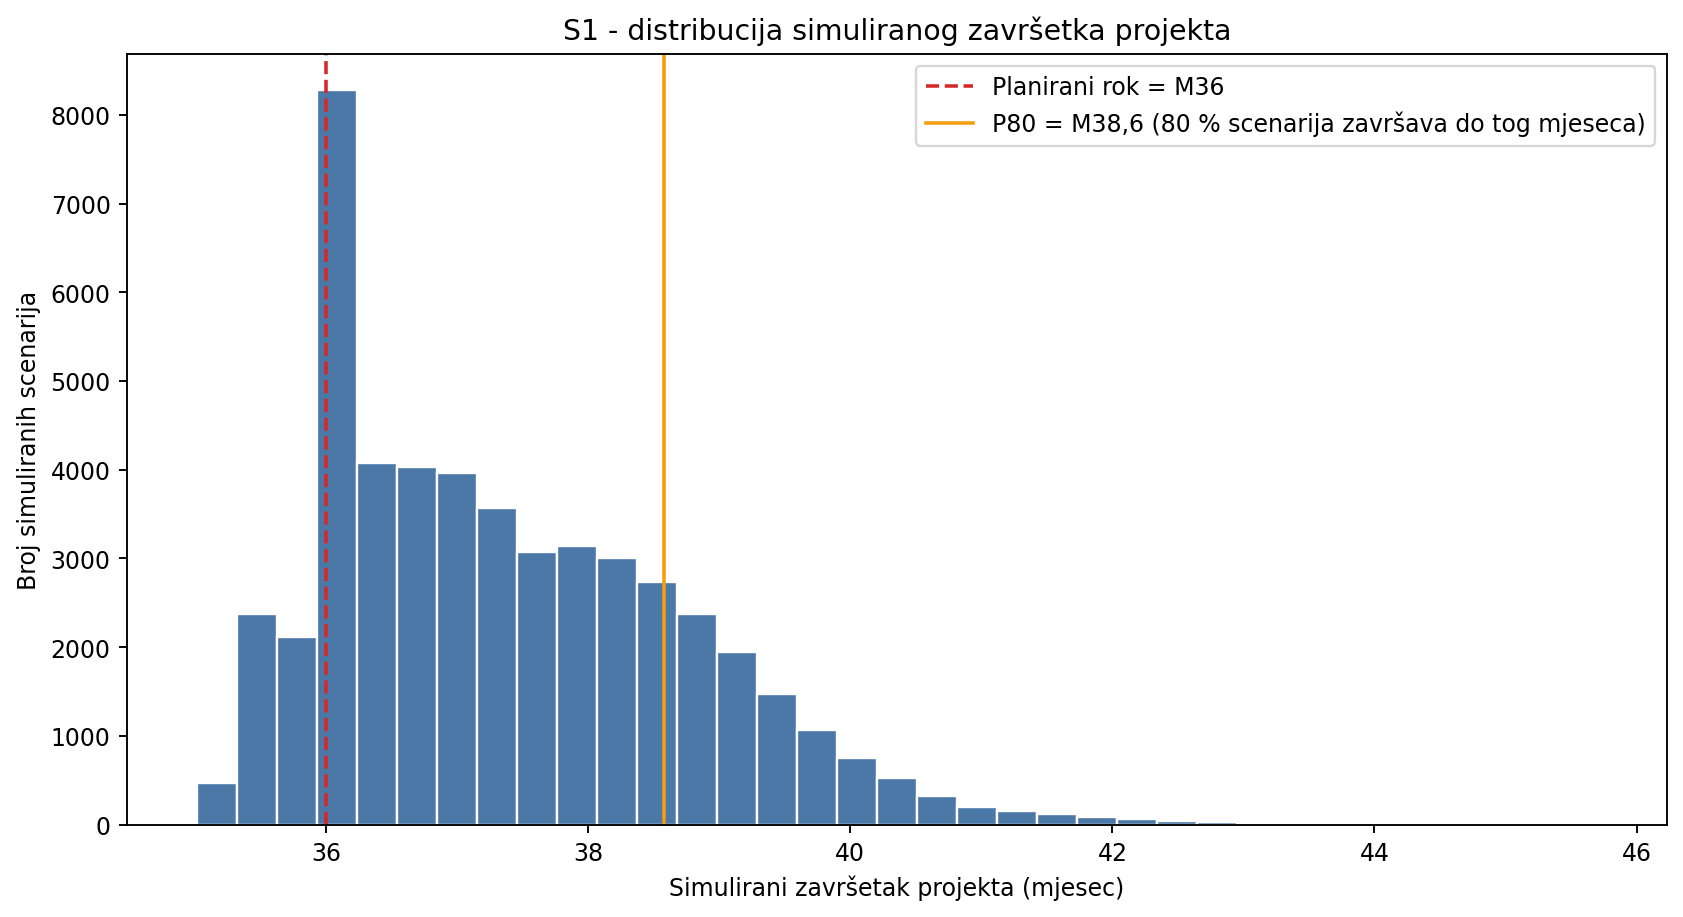
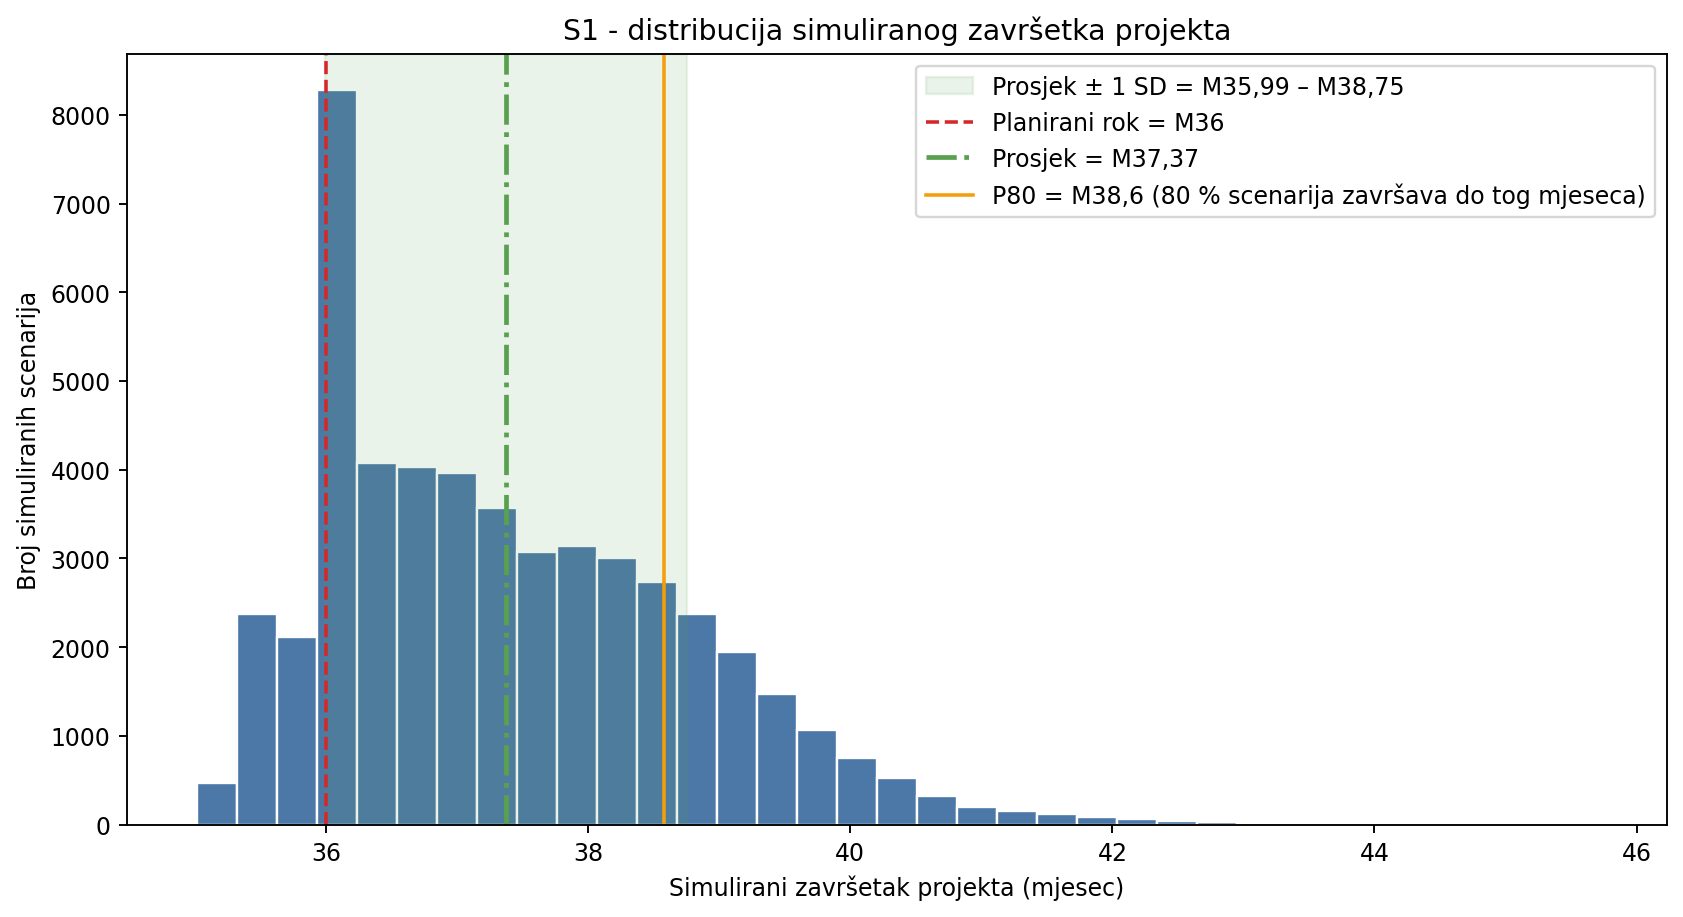
dorada histograma S1

Changed region(s): [[0.5561, 0.0611, 0.9887, 0.2443]]

diff --git a/src/grafovi.py b/src/grafovi.py
@@ -148,17 +148,66 @@ def nacrtaj_s0_mrezu(raspored, cpm, putanja):
 
 
 def nacrtaj_histogram(zavrsetci, sazetak, putanja):
+
     p80 = f"{sazetak['p80']:.1f}".replace(".", ",")
+    prosjek = sazetak["prosjecni_zavrsetak"]
+    sd = sazetak["standardna_devijacija"]
+
+    prosjek_oznaka = f"{prosjek:.2f}".replace(".", ",")
+    donja_sd = prosjek - sd
+    gornja_sd = prosjek + sd
+
+    donja_sd_oznaka = f"{donja_sd:.2f}".replace(".", ",")
+    gornja_sd_oznaka = f"{gornja_sd:.2f}".replace(".", ",")
+
     plt.figure(figsize=(10, 5.5))
-    plt.hist(zavrsetci, bins=35, color="#4C78A8", edgecolor="white")
-    plt.axvline(ROK_PROJEKTA, color="#D62728", linestyle="--",
-                label=f"Planirani rok = M{ROK_PROJEKTA:g}")
-    plt.axvline(sazetak["p80"], color="#F59E0B",
-                label=f"P80 = M{p80} (80 % scenarija završava do tog mjeseca)")
+
+    plt.hist(
+        zavrsetci,
+        bins=35,
+        color="#4C78A8",
+        edgecolor="white"
+    )
+
+    # Raspon jedne standardne devijacije oko prosjeka
+    plt.axvspan(
+        donja_sd,
+        gornja_sd,
+        color="#59A14F",
+        alpha=0.12,
+        label=f"Prosjek ± 1 SD = M{donja_sd_oznaka} – M{gornja_sd_oznaka}"
+    )
+
+    # Planirani rok
+    plt.axvline(
+        ROK_PROJEKTA,
+        color="#D62728",
+        linestyle="--",
+        label=f"Planirani rok = M{ROK_PROJEKTA:g}"
+    )
+
+    # Prosječni završetak
+    plt.axvline(
+        prosjek,
+        color="#59A14F",
+        linestyle="-.",
+        linewidth=2,
+        label=f"Prosjek = M{prosjek_oznaka}"
+    )
+
+    # P80
+    plt.axvline(
+        sazetak["p80"],
+        color="#F59E0B",
+        label=f"P80 = M{p80} (80 % scenarija završava do tog mjeseca)"
+    )
+
     plt.title("S1 - distribucija simuliranog završetka projekta")
     plt.xlabel("Simulirani završetak projekta (mjesec)")
     plt.ylabel("Broj simuliranih scenarija")
+
     plt.legend()
+
     _spremi(putanja)
 
 
